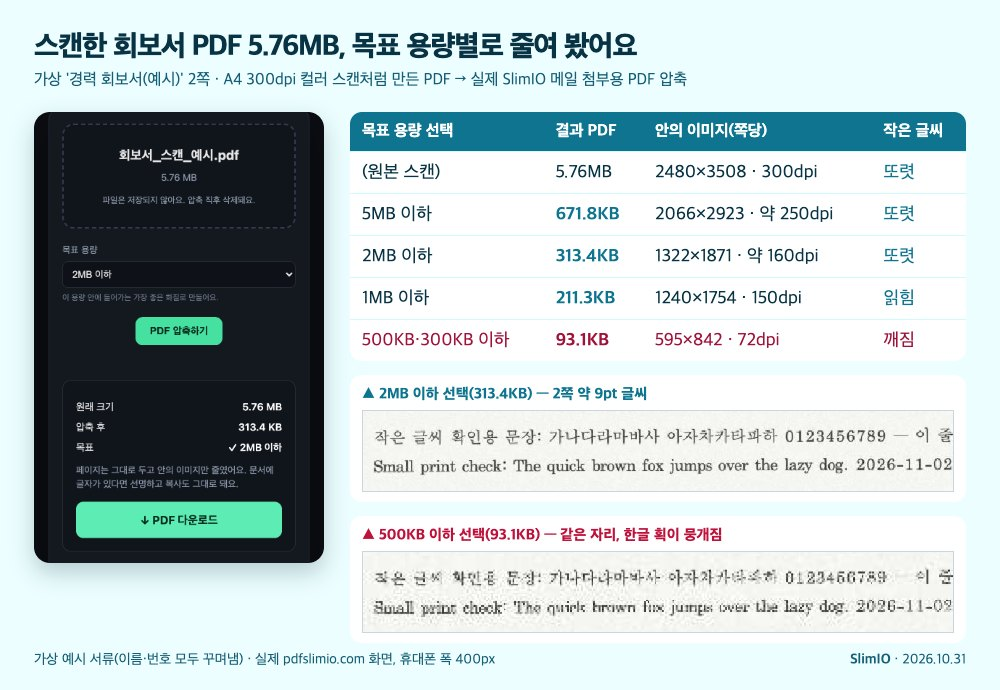
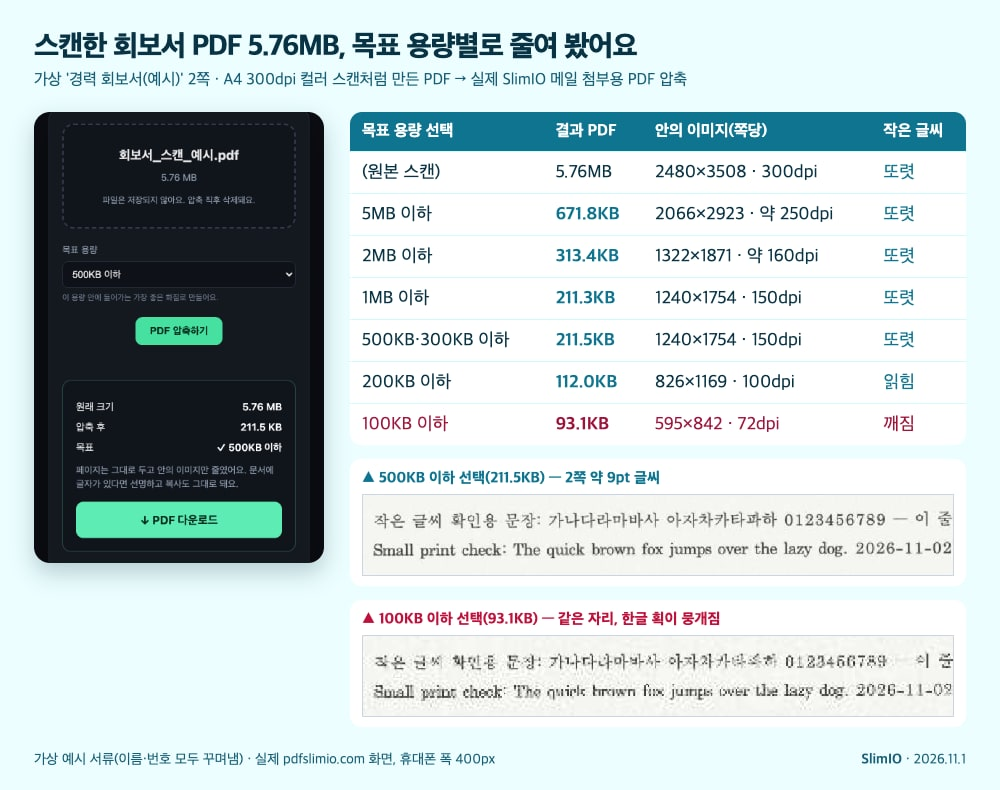
Tistory T20, T25: results measured again on the live site after the server steps fix
T20 (criminal record scan): 500KB and 300KB now 211.5KB at 150dpi (was 93.1KB, smudged);
the smudging now starts at 100KB (93.1KB), 200KB is 112.0KB at 100dpi. The advice follows:
pick the limit the site asks for, not far below it. T25: 500KB 117.1KB -> 160.3KB. Both
pictures rebuilt from the live results. HANDOFF: the mail guide stays (a rebuilt file of the
same kind still needs page images at 1MB), and a server note: a 36MB photo PDF timed out
(gs over 60s) once the shared CPU had used its burst on repeated test runs.

diff --git a/marketing/tistory/20-criminal-record.html b/marketing/tistory/20-criminal-record.html
@@ -5,8 +5,8 @@
 카테고리: 문서·사진 꿀팁
 근거: 경찰청 범죄경력회보서 발급시스템 첫 화면(https://crims.police.go.kr/main.do — 본인발급/열람 11종 버튼, '기관 제출용 신청/관리' "취업 등의 용도로 지정된 시설(기관)의 장에게 본인의 범죄경력을 제공하는 기능", 외국입국/체류 팝업 "비자 발급 시에 한정"·"외국 기업 취업 및 대학교 입학 등"으로는 발급 불가, 발급동의 안내 팝업 "기존 취업자에 대한 점검목적으로 사용이 불가", 본인확인용 팝업·형실효법 10조 2년/2천만원), 같은 시스템 자주하는 질문 50건(POST /bbs/faqDtl.do, 전부 다시 받음 — [1-3] 이메일·팩스·파일(PDF 등) 저장 기능 없음, [1-1] 인쇄 오류는 크롬·엣지, [2-4] 수사경력 보존기간 지나면 삭제·시기는 경찰서 민원실, [2-6] 실효 기간·집행유예 등은 유예기간 지나면 같은 기준, [2-7] 실효돼도 기록 삭제 안 됨, [2-8] 개별법이 제외하도록 한 경우(외국 입국 체류 허가용 등) 제외·"그 외의 경우에는 실효된 형이 포함"·수사자료표 내용확인용은 제외하되 본인이 요구하면 포함, [6-1] 지연 시 신청 경찰서 종합조회처리실, [6-2]·[10-3] 검증완료일부터 5일·'기간만료삭제' 뒤 신규 신청, [8-1] 본인 확인용 제출 불가·채용용은 '취업예정자 등 발급 동의 신청', [9-1] 영문 이름은 쓴 그대로, [9-4] 기재가 다르면 '수사자료표 내용확인용(실효된형 포함)' 신청서 또는 '처분(기재)수정요청', [10-4] 발급언어 '영문', [10-5] 분리·통합, [10-6] 수사경력 제외·쪽 번호 삭제 불가, [10-8] 인터넷 대리발급 불가, [10-11] 검증 14일 이내, [11-2] 순수 자원봉사자는 성범죄경력 조회 대상 아님), 사용설명서 PDF 3종(본인발급-열람·취업예정자 발급동의·상세 설명서 — 오늘 받은 파일이 10-30 파일과 바이트까지 같음: 정부 통합로그인·개인용 공동인증서만·최초 1회 사용자 등록 / 회보서 선택→개인정보 확인→접수경찰서→신청 / 진행 상태 4단계·'회보서 인쇄' / 시설 ID 영문·숫자 6자리·검증번호 숫자 4자리·'동의'·회보서 유형·인쇄유형·직접출력 vs 본인확인완료 후 시설 출력·"인쇄 가능 기간은 5일"), 신청서식 「[통합본]취업제한 등 범죄경력조회 신청서식(본인신청제외) 2026.08.03」 hwp(신청서식안내에서 받음 — 성범죄 경력 등 조회 동의서: "본인은 ○○기관(시설)…의 취업자등으로서 「아동ㆍ청소년의 성보호에 관한 법률」 제56조…에 따른 … 조회에 동의합니다", "동의 거부 시에는 취업에 제한을 받을 수 있습니다", 동의자 서명 자필), 형의 실효 등에 관한 법률 [시행 2026.10.2, 법률 제21490호](https://www.law.go.kr/LSW/lsInfoR.do?lsiSeq=290623 — 6조①4호·③④, 7조① 10년·5년·2년·구류 과료, 10조②③), 같은 법 시행령 [시행 2026.10.2, 대통령령 제36728호](lsiSeq=290533 — 7조의2② 본인 확인 신청은 "본인이 별도로 요구하지 아니하는 한" 실효된 형·사면/복권·3년 지난 소년부송치·면소 간주 선고유예·효력 잃은 집행유예 제외, ③ 외국 입국·체류 허가 신청은 같은 항목 제외), 아동ㆍ청소년의 성보호에 관한 법률 [시행 2026.10.2, 법률 제22027호](lsiSeq=290215 — 56조①1·2호 유치원·학교, ⑤ "본인의 동의를 받아" 조회 요청·회신서 직접 제출 시 조회한 것으로 봄), 정부24 「범죄경력조회 신청」(https://www.gov.kr/mw/AA020InfoCappView.do?CappBizCD=13200000062, 최근 내용 변경·확인 2026-09-14 — 인터넷·방문, 처리기간 총 14일, 수수료 없음, 대리는 수사자료표 확인·외국 입국·체류 목적만·자필 위임장 등), 대한민국 아포스티유 누리집(https://www.apostille.go.kr/ — 대상 문서에 경찰청 범죄·수사경력회보서·범죄경력회보서·수사경력회보서, 외국 입국/체류 허가용) — 모두 2026-10-31 확인. UNCONFIRMED: '동의사유'라는 이름의 입력 칸(공개 설명서·서식에 없음, 로그인 뒤 화면은 못 봄 → 본문에 그렇게 씀) / 회보서 자체 유효기간(공식 안내 없음 → '확인하지 못했어요') / 비자 사이트별 업로드 용량·스캔 해상도 기준(안 씀) / 아포스티유 수수료·절차(이번 글은 대상 문서라는 것만)
 수요: 다음 자동완성(2026-10-31) '범죄경력회보서' → 범죄경력회보서 발급시스템 | 범죄경력 회보서 | 범죄경력회보서 인터넷 발급 | 범죄경력회보서 발급시스템 실효된 형 포함 | 범죄경력회보서 발급 | 범죄경력회보서 발급방법 | 범죄경력회보서 발급시스템 동의사유 | 경찰청 범죄경력회보서 발급시스템 | 인터넷 범죄경력회보서 발급시스템 | 학교 범죄경력회보서 발급시스템 | 범죄경력조회 회보서 발급 시스템 | 성범죄 경력회보서 발급시스템 | 범죄 수사경력 회보서 인터넷 발급 / '범죄경력조회' → 범죄경력조회 동의서 | 범죄경력 조회 회신서 | 범죄경력 조회 신청서 양식 / '성범죄경력조회' → 성범죄 경력 조회 동의서 | 학원강사 성범죄 경력 조회 동의서 / '범죄경력회보서 실효·동의·pdf·출력·영문·기간·용도·스캔·제출'은 자동완성 없음
-실험: 실제 서류는 안 씀. 경찰 상징 없이 직접 만든 가상 '경력 회보서(예시)' 2쪽(박가상·PARK GASANG·발급번호 EX-2611-0417-00·쪽 번호 '- 1 / 2 -'·2쪽에 약 9pt 작은 글씨 줄, 'SAMPLE', scratchpad r1031u/u20/in/crim_p1·p2.html)을 A4 300dpi 컬러 스캔처럼 만든 2쪽 PDF(2480×3508 JPEG 두 장, 회보서_스캔_예시.pdf, 6,039,121바이트 = 도구 표시 5.76MB, scripts/scanify.mjs·mkpdf.py)로 실제 https://pdfslimio.com/ko/compress-pdf-for-email.html?notrack (Playwright headless, 폭 400, scripts/email.mjs): 5MB 이하 → 671.8KB(쪽당 2066×2923, 서버 응답 dpi 250) / 2MB 이하 → 313.4KB(1322×1871, dpi 160) / 1MB 이하 → 211.3KB(1240×1754) / 500KB 이하·300KB 이하 → 둘 다 93.1KB(595×842). 결과 PDF를 Ghostscript로 200dpi로 그려 2쪽 같은 자리 비교(out/email/stack_small.png): 5MB·2MB·1MB는 9pt 한글·영문 또렷, 93.1KB는 한글 작은 글씨 획이 뭉개짐(쪽 번호 '- 2 / 2 -'는 읽힘). 결과 화면 문구 "페이지는 그대로 두고 안의 이미지만 줄였어요", 업로드 화면 "파일은 저장되지 않아요. 압축 직후 삭제돼요."
-이미지: crim-ts-hero.jpg(새 대표 이미지 1200×630, 청록 #0e7490 — 회보서 종류별 실효된 형 포함/제외 카드 + 14일·5일·0원, 사람·경찰 상징 없음), crim-ts-routes-ko.jpg(새 — '누가 달라고 했나요?' 3갈래: 본인 확인용 / 발급동의 / 외국 입국·체류용, 메뉴 이름·실효된 형·인쇄), crim-ts-scan-ko.jpg(새 — 실제 메일 첨부용 PDF 압축 화면 2MB 결과 캡처 + 목표별 결과 표 + 313.4KB vs 93.1KB 같은 자리 확대). 네이버 #62 이미지(남색, 사진→JPG→PDF 화면, 홍길동 예시)와 다른 색·도구·예시 서류
+실험: 실제 서류는 안 씀. 경찰 상징 없이 직접 만든 가상 '경력 회보서(예시)' 2쪽(박가상·PARK GASANG·발급번호 EX-2611-0417-00·쪽 번호 '- 1 / 2 -'·2쪽에 약 9pt 작은 글씨 줄, 'SAMPLE', scratchpad r1031u/u20/in/crim_p1·p2.html)을 A4 300dpi 컬러 스캔처럼 만든 2쪽 PDF(2480×3508 JPEG 두 장, 회보서_스캔_예시.pdf, 6,039,121바이트 = 도구 표시 5.76MB, scripts/scanify.mjs·mkpdf.py)로 실제 https://pdfslimio.com/ko/compress-pdf-for-email.html?notrack (Playwright headless, 폭 400, scripts/email.mjs): 5MB 이하 → 671.8KB(쪽당 2066×2923, 서버 응답 dpi 250) / 2MB 이하 → 313.4KB(1322×1871, dpi 160) / 1MB 이하 → 211.3KB(1240×1754) / 500KB 이하·300KB 이하 → 둘 다 93.1KB(595×842). 결과 PDF를 Ghostscript로 200dpi로 그려 2쪽 같은 자리 비교(out/email/stack_small.png): 5MB·2MB·1MB는 9pt 한글·영문 또렷, 93.1KB는 한글 작은 글씨 획이 뭉개짐(쪽 번호 '- 2 / 2 -'는 읽힘). 결과 화면 문구 "페이지는 그대로 두고 안의 이미지만 줄였어요", 업로드 화면 "파일은 저장되지 않아요. 압축 직후 삭제돼요." ※ 2026-11-01 도구 수정(1MB 미만도 서버가 150/120/100dpi를 먼저 시도) 뒤 같은 파일·같은 스크립트로 실제 사이트에서 다시 잼(out/email1101): 5MB 671.8KB(dpi 250)·2MB 313.4KB(dpi 160)·1MB 211.3KB 그대로, 500KB·300KB 둘 다 211.5KB(1240×1754, dpi 150, 또렷), 200KB 112.0KB(826×1169, dpi 100, 조금 흐리지만 읽힘), 100KB 93.1KB(595×842, 72dpi, 한글 획 뭉개짐). 크롭 out/email1101/stack.png.
+이미지: crim-ts-hero.jpg(새 대표 이미지 1200×630, 청록 #0e7490 — 회보서 종류별 실효된 형 포함/제외 카드 + 14일·5일·0원, 사람·경찰 상징 없음), crim-ts-routes-ko.jpg(새 — '누가 달라고 했나요?' 3갈래: 본인 확인용 / 발급동의 / 외국 입국·체류용, 메뉴 이름·실효된 형·인쇄), crim-ts-scan-ko.jpg(새 — 실제 메일 첨부용 PDF 압축 화면 2MB 결과 캡처 + 목표별 결과 표 + 313.4KB vs 93.1KB 같은 자리 확대). 네이버 #62 이미지(남색, 사진→JPG→PDF 화면, 홍길동 예시)와 다른 색·도구·예시 서류 ※ crim-ts-scan-ko.jpg는 11/1 다시 만듦(img/crim_scan_1101.html, 1000×790): 왼쪽 500KB 결과 화면, 표 7줄, 211.5KB(500KB)와 93.1KB(100KB) 확대.
 예약: 2026-11-09 08:00
 대표이미지: crim-ts-hero.jpg
 -->
@@ -21,7 +21,7 @@
 <b>⏱ 3줄 요약</b><br>
 1⃣ 인터넷 발급은 <b>crims.police.go.kr</b>에서 무료로. 경찰서 검증이 <b>14일 안</b>에 끝나고, 그날부터 <b>5일 안</b>에 인쇄해야 해요<br>
 2⃣ 실효된 형은 <b>본인 확인용은 기본 제외(요청하면 포함)</b>, 외국 입국·체류용은 제외, 그 밖의 회보서는 포함이에요<br>
-3⃣ 파일로 내야 하면 인쇄본을 스캔해서 PDF로. 실험해 보니 목표를 너무 작게 잡으면 작은 글씨가 깨졌어요 🖨
+3⃣ 파일로 내야 하면 인쇄본을 스캔해서 PDF로. 실험해 보니 300KB까지는 또렷했고, 100KB로 줄이면 작은 글씨가 깨졌어요 🖨
 </div>
 
 <h2>🧭 먼저 고를 것: 누가 달라고 했나요?</h2>
@@ -94,14 +94,15 @@
 
 <p>그런데 비자 신청 사이트처럼 <b>파일로 올려야 하는 곳</b>도 있죠. 그럴 땐 인쇄본을 스캔하는 수밖에 없는데, 복합기에서 컬러·고해상도로 스캔하면 두 쪽만으로도 몇 MB가 나와요. 그래서 가상 '경력 회보서(예시)' 2쪽을 A4 300dpi 컬러로 스캔한 것처럼 만든 <b>5.76MB PDF</b>를, 제가 만든 무료 도구 <a href="https://pdfslimio.com/ko/compress-pdf-for-email.html">SlimIO 메일 첨부용 PDF 압축</a>에 목표 용량별로 넣어 봤어요.</p>
 
-<p style="text-align:center;"><img src="https://pdfslimio.com/img/blog/crim-ts-scan-ko.jpg" alt="스캔한 가상 회보서 PDF 5.76MB를 목표 용량별로 압축한 실제 화면과 결과 표, 313.4KB와 93.1KB 결과의 작은 글씨 확대 비교" width="700"></p>
+<p style="text-align:center;"><img src="https://pdfslimio.com/img/blog/crim-ts-scan-ko.jpg" alt="스캔한 가상 회보서 PDF 5.76MB를 목표 용량별로 압축한 실제 화면과 결과 표, 211.5KB와 93.1KB 결과의 작은 글씨 확대 비교" width="700"></p>
 
 <ul>
-  <li>✅ <b>5MB 이하</b> 선택 → 671.8KB, <b>2MB 이하</b> → 313.4KB, <b>1MB 이하</b> → 211.3KB. 2쪽의 약 9pt 작은 글씨까지 또렷했어요.</li>
-  <li>⚠ <b>500KB·300KB 이하</b> 선택 → 둘 다 93.1KB. 쪽마다 이미지가 595×842까지 줄면서 <b>한글 작은 글씨 획이 뭉개졌어요</b>. 쪽 번호 '- 2 / 2 -'는 읽혔어요.</li>
+  <li>✅ <b>5MB 이하</b> 선택 → 671.8KB, <b>2MB 이하</b> → 313.4KB, <b>1MB 이하</b> → 211.3KB, <b>500KB·300KB 이하</b> → 둘 다 211.5KB. 2쪽의 약 9pt 작은 글씨까지 또렷했어요.</li>
+  <li>🙂 <b>200KB 이하</b> 선택 → 112.0KB. 쪽마다 이미지가 826×1169로 줄어 조금 흐려졌지만 읽혔어요.</li>
+  <li>⚠ <b>100KB 이하</b> 선택 → 93.1KB. 쪽마다 이미지가 595×842까지 줄면서 <b>한글 작은 글씨 획이 뭉개졌어요</b>. 쪽 번호 '- 2 / 2 -'는 읽혔어요.</li>
 </ul>
 
-<p>💡 정리하면, 올리는 곳의 용량 한도가 넉넉하다면 목표도 <b>넉넉하게(2MB 이하 등)</b> 고르는 게 좋아요. 무조건 가장 작은 걸 고르면 심사하는 쪽이 글자를 못 읽을 수 있어요. 회보서는 <b>모든 쪽이 한 세트</b>라서, 빠진 쪽 없이 한 파일로 만드세요. 직접 만든 합성 스캔이라 실제 스캔본은 용량이 다를 수 있어요.</p>
+<p>💡 정리하면, 목표는 <b>올리는 곳의 한도에 맞춰</b> 고르면 돼요. 한도보다 훨씬 작게 잡을 필요는 없어요. 이 2쪽 스캔은 300KB까지 또렷했지만, 100KB까지 줄이면 심사하는 쪽이 글자를 못 읽을 수 있어요. 회보서는 <b>모든 쪽이 한 세트</b>라서, 빠진 쪽 없이 한 파일로 만드세요. 직접 만든 합성 스캔이라 실제 스캔본은 용량이 다를 수 있어요.</p>
 
 <p>🔒 이 도구는 50MB까지는 서버에서 압축하고, 화면 안내대로 <b>압축 직후 파일을 삭제</b>해요. 민감한 서류라 서버에 올리는 게 꺼려지면 복합기 스캔 해상도를 낮춰 다시 스캔하는 방법도 있어요. PDF 용량을 줄이는 다른 방법은 <a href="https://ddoua.tistory.com/9">PDF 용량 줄이기 글</a>에 모아 뒀어요.</p>
 

diff --git a/marketing/tistory/25-driving-record.html b/marketing/tistory/25-driving-record.html
@@ -5,8 +5,8 @@
 카테고리: 문서·사진 꿀팁
 근거: 정부24 '운전경력증명서 발급 신청'(https://www.gov.kr/mw/AA020InfoCappView.do?CappBizCD=13200000049 — 최근 내용 확인 2026-08-04: 신청방법 "인터넷 , 방문 , 무인발급기", 본인 또는 대리인(온라인은 대리인 신청 불가), 즉시(근무시간 내 3시간), 수수료 무료, 접수·처리 경찰서, 본인 신분증(주민등록증·운전면허증·여권(뒷자리 없는 여권은 여권정보증명서 함께) 등), 대리는 대리인 신분증·위임장·위임인 신분증, 영문은 여권(행정정보 공동이용 동의 시 담당 공무원 확인), 근거 시행규칙 제129조의2), 경찰민원24 '운전경력증명발급(국문)'(https://minwon24.police.go.kr/cvlcpt/cvlcptGdInfo.do?cvlcptId=MW-003 — 신청방법 방문·정부24·경찰청교통민원24·경찰민원24, 수수료 없음, 문의 182, 최근 확인 2023-12-27), 경찰청 교통민원24 이용안내(https://www.efine.go.kr/notification/help/helpPop.do?contentType=040508&contentUrl=careerIssueReq — 조회>운전면허>운전경력증명서: 운전면허경력·법규위반·교통사고 기간 기준 설정, 발급사유, 인쇄하기, OZ report tool 설치; 안내 그림 help_careerIssue.png — 항목마다 '전체경력'/'오늘기준 최근 _년 _월 이후 경력만 표시', 희망기간은 "신청일로부터 계산", 면허취득이 안 보이면 전체경력으로 다시, "교통민원24에서 인쇄한 운전경력증명서는 진본 확인이 불가"하니 경찰서 민원실·정부24 / 영문 contentType=040509 같은 구성 / '7년 무사고' contentType=040507 그림 help_sevenAcc.png — 사고 여부 조회 서비스가 아니라 2종 보통(수동) 면허로 7년간 면허취소·교통사고 사실이 없어 1종 보통 대상인지 확인, 운전면허시험장 방문, 경찰서에서는 처리 어려움, 로그인 필요), 한국도로교통공단 안전운전 통합민원 '7년무사고'(https://www.safedriving.or.kr/guide/larGuide06.do?menuCode=MN-PO-1216 — 전국 운전면허시험장, 2종보통 면허로 신청일부터 과거 7년 이상 무사고, "2026.3.19.부터 자동차보험가입증명서 등을 통해 운전한 경험이 있음을 입증하는 경우에 한정", 수수료 일반 10,000원·모바일IC 15,000원(신체검사료 별도)) + '운전경력 입증자료 및 경력 확인 기준' 팝업(https://www.safedriving.or.kr/diGuide/selectDiGuideCareerPop.do — 자동차 보험가입증명서, 운수업체 경력증명서, 재직증명서+법인 차량 서류, 자동차등록증, 교통위반 단속 내역, 운전학원 도로연수 10시간 이상, 렌터카 합산 72시간 이상 등, 신청일부터 7년 이내) + 첫 화면 메뉴(운전경력증명서 발급 메뉴는 못 찾음), 국가법령정보센터 도로교통법 제137조(③ 본인 또는 대리인이 시·도경찰청장, 경찰서장 또는 한국도로교통공단에 증명 신청)·도로교통법 시행규칙 제129조의2(시행 2027.1.1판 화면 — 경찰서장에게 신청, 원하면 지문 대조, 영문은 여권정보 확인, 연습면허 기간은 운전경력에서 제외)·별지 제144호의2서식 신청서(면허 경력 "미작성 시 보유중인 면허만 조회됨", 유의사항 "법규위반(통고처분)의 경우 2000년 이후 자료로 한정되며, 범칙금 납부 후 5년이 경과한 자료는 파기")·제144호의3서식 증명서(A4 가로, 운전면허 경력 종별 발급일자(취소·정지), 교통사고 사고일자·발생지 경찰서·피해구분·인적피해, 법규위반 발생일자·단속지 경찰서·위반내용(법조항), 누산점수, 용도, 유의사항 1 "최근 ( )년" 기준)·제144호의4서식 영문 "Certificate of Driver's License"(Penalty Point 칸), 정책브리핑 경찰청 보도자료 '무인민원발급기 연계 경찰증명 발급시스템 구축'(https://www.korea.kr/common/download.do?fileId=197581263&tblKey=GMN — 12월 26일부터 교통사고사실확인원·운전경력증명서(국문)·(영문), "발급 비용은 무료", 경찰증명서 선택 → 주민등록번호 → 지문인식), 정부24 무인민원발급안내(https://plus.gov.kr/portal/custcntr/utztngd/unmncvlcptissugd/unmncvlcptissugdinfo — "발급종수 및 발급 가능 시간은 … 현장 여건 및 운영상황에 따라 달라질 수" 있으니 설치장소에 문의, 목록 표에는 경찰 증명서 분류가 따로 없음) — 모두 2026-10-31 확인. UNCONFIRMED·처리: ① 운전면허시험장 창구에서 운전경력증명서 발급 — 법 137조는 공단도 적지만 정부24·경찰민원24 접수처는 경찰서, 안전운전 통합민원 메뉴에도 없음 → '공식 안내에서 확인하지 못했어요, 가기 전에 문의' ② 음주운전이 어떤 문구로 몇 년치 나오는지 → 서식의 관련 칸(취소·정지, 위반내용(법조항))만 설명하고 '확인하지 못했어요, 182' ③ 사고가 없을 때 빈칸인지 '해당 없음' 문구인지 → 확인 못 함 ④ '전체경력'을 고르면 증명서 제목 칸에 무엇이 찍히는지 → 안 씀 ⑤ 운전경력증명서가 7년 무사고 입증자료로 인정되는지 → 공단 입증자료 목록에 이름이 없어 '목록에 없어요'로만 씀 ⑥ 회사·보험사가 원하는 기간·형식 → '제출처 안내 따르기'
 수요: 다음 자동완성(2026-10-31) '운전경력증명서' → 운전경력증명서 인터넷발급 | 운전경력증명서 | 운전경력증명서 발급 | 운전경력증명서 발급기관 | 운전경력증명서 음주운전 기록 | 무사고 운전경력증명서 | 운전경력증명서 무인발급기 | 정부24 운전경력증명서 | 운전경력증명서 발급사유 | 자동차 운전경력증명서 | 군 운전경력증명서 발급 | 운전면허 경력증명서 발급 / '무사고 증명서' → 무사고 운전경력증명서·무사고 증명서 발급·무사고 경력증명서 발급 / '안전운전 통합민원' → 도로교통공단 안전운전 통합민원 등 / '영문 운전경력증명서'·'운전경력증명서 pdf'·'기간'·'취업'·'보험'은 다음 자동완성 없음
-실험: 실제 서류는 안 씀. 관인·실제 서식 없이 직접 만든 가상 '운전경력증명서(예시)'(한예시·면허번호 00-00-000000-00·기간 면허 경력 10년/교통사고 5년/법규위반 3년(임의)·7pt 확인번호 줄, A4 가로 1쪽 글자 PDF 216,040바이트 — 도구 표시 211.0KB, in/dr_sample.html)와 가상 '운전면허증 사본(예시)'(얼굴 없는 실루엣, 'SAMPLE', 300dpi 스캔처럼 만든 2480×3508 JPG를 A4 세로 PDF로 1,162,835바이트 — 1.11MB). ① 실제 https://pdfslimio.com/ko/merge.html?notrack (Playwright headless, 폭 400, scripts/merge.mjs): 사본·증명서 순으로 올린 뒤 증명서 줄의 ▲(위로)로 첫 장으로 → 합친 파일 2·전체 페이지 2·1.22MB(1,281,457바이트), pdf.js로 1쪽 842×595pt(가로, 글자 687자 그대로)·2쪽 595×842pt(세로) 확인. ② 그 파일을 실제 https://pdfslimio.com/ko/compress-pdf-for-email.html?notrack (scripts/email.mjs)에: 1MB 이하 → 366.0KB, 500KB 이하 → 117.1KB('페이지는 그대로 두고 안의 이미지만 줄였어요'), 두 결과 모두 쪽 방향·증명서 글자 그대로, 117.1KB에서도 사본 글자 읽힘(확대 비교)
-이미지: driving-record-ts-hero.jpg(새 대표 1200×630, 고속도로 표지판 초록 #064e3b·#15803d — 발급기관 4방향 표지판 그림, 얼굴 없음), driving-record-ts-fields-ko.jpg(새 — 직접 만든 예시 증명서에 칸 번호 ①~⑤를 붙여 면허 경력(취소·정지)·교통사고·법규위반·누산점수·용도 설명, 기간 표시 안내), driving-record-ts-merge-ko.jpg(새 — 실제 합치기 화면(▲로 순서 변경 후) + 실제 PDF 압축 화면(500KB) + 결과 흐름 + 117.1KB 확대). 네이버 #67 이미지(짙은 파랑 #1d4ed8, 종이 증명서 사진→JPG→PDF 실험, 발급처 그림)와 다른 색·구성·실험·예시 문서
+실험: 실제 서류는 안 씀. 관인·실제 서식 없이 직접 만든 가상 '운전경력증명서(예시)'(한예시·면허번호 00-00-000000-00·기간 면허 경력 10년/교통사고 5년/법규위반 3년(임의)·7pt 확인번호 줄, A4 가로 1쪽 글자 PDF 216,040바이트 — 도구 표시 211.0KB, in/dr_sample.html)와 가상 '운전면허증 사본(예시)'(얼굴 없는 실루엣, 'SAMPLE', 300dpi 스캔처럼 만든 2480×3508 JPG를 A4 세로 PDF로 1,162,835바이트 — 1.11MB). ① 실제 https://pdfslimio.com/ko/merge.html?notrack (Playwright headless, 폭 400, scripts/merge.mjs): 사본·증명서 순으로 올린 뒤 증명서 줄의 ▲(위로)로 첫 장으로 → 합친 파일 2·전체 페이지 2·1.22MB(1,281,457바이트), pdf.js로 1쪽 842×595pt(가로, 글자 687자 그대로)·2쪽 595×842pt(세로) 확인. ② 그 파일을 실제 https://pdfslimio.com/ko/compress-pdf-for-email.html?notrack (scripts/email.mjs)에: 1MB 이하 → 366.0KB, 500KB 이하 → 117.1KB('페이지는 그대로 두고 안의 이미지만 줄였어요'), 두 결과 모두 쪽 방향·증명서 글자 그대로, 117.1KB에서도 사본 글자 읽힘(확대 비교) ※ 2026-11-01 도구 수정(1MB 미만도 서버가 150/120/100dpi를 먼저 시도) 뒤 같은 파일로 실제 사이트에서 다시 잼(out/email1101): 1MB 이하 366.0KB(dpi 300) 그대로, 500KB 이하 117.1KB → 160.3KB(dpi 150, 쪽·방향·증명서 글자 그대로, 사본 글자 읽힘). 300KB·200KB 이하도 160.3KB.
+이미지: driving-record-ts-hero.jpg(새 대표 1200×630, 고속도로 표지판 초록 #064e3b·#15803d — 발급기관 4방향 표지판 그림, 얼굴 없음), driving-record-ts-fields-ko.jpg(새 — 직접 만든 예시 증명서에 칸 번호 ①~⑤를 붙여 면허 경력(취소·정지)·교통사고·법규위반·누산점수·용도 설명, 기간 표시 안내), driving-record-ts-merge-ko.jpg(새 — 실제 합치기 화면(▲로 순서 변경 후) + 실제 PDF 압축 화면(500KB) + 결과 흐름 + 117.1KB 확대). 네이버 #67 이미지(짙은 파랑 #1d4ed8, 종이 증명서 사진→JPG→PDF 실험, 발급처 그림)와 다른 색·구성·실험·예시 문서 ※ driving-record-ts-merge-ko.jpg는 11/1 다시 만듦(img/dr_merge_1101.html): 압축 화면·확대는 500KB 160.3KB 결과, 아래 날짜 10-31(합치기)·11-01(압축).
 예약: 2026-11-14 08:00
 대표이미지: driving-record-ts-hero.jpg
 -->
@@ -21,7 +21,7 @@
 <b>⏱ 3줄 요약</b><br>
 1⃣ 정부24·경찰민원24·교통민원24·경찰서·무인민원발급기, <b>어디서 떼도 무료</b>이고 바로 나와요<br>
 2⃣ 면허 경력·법규위반·교통사고마다 <b>'전체' 또는 '최근 ○년'</b>을 골라요. 기간은 신청일부터 거꾸로 세요<br>
-3⃣ 증명서와 면허증 사본을 <b>PDF 한 파일</b>로 합쳤더니 1.22MB, 압축하니 117.1KB까지 줄었어요 (실험)
+3⃣ 증명서와 면허증 사본을 <b>PDF 한 파일</b>로 합쳤더니 1.22MB, 압축하니 160.3KB까지 줄었어요 (실험)
 </div>
 
 <div style="margin:36px auto;max-width:620px;padding:26px 20px 22px;border-radius:18px;background:#0b0d12;text-align:center;">
@@ -100,11 +100,11 @@
   <li>🪪 운전면허증 사본(예시): A4 <b>세로</b> 1쪽, 300dpi 스캔, 1.11MB</li>
 </ul>
 
-<p style="text-align:center;"><img src="https://pdfslimio.com/img/blog/driving-record-ts-merge-ko.jpg" alt="PDF 합치기와 PDF 압축 실제 화면, 1.22MB를 366.0KB와 117.1KB로 줄인 결과와 확대 비교" width="700"></p>
+<p style="text-align:center;"><img src="https://pdfslimio.com/img/blog/driving-record-ts-merge-ko.jpg" alt="PDF 합치기와 PDF 압축 실제 화면, 1.22MB를 366.0KB와 160.3KB로 줄인 결과와 확대 비교" width="700"></p>
 
 <ol>
   <li><b>합치기:</b> 두 파일을 올리고 증명서 줄의 ▲를 눌러 첫 장으로 → <b>2쪽 1.22MB</b>. 가로 쪽은 가로, 세로 쪽은 세로 그대로였고 증명서 글자도 그대로 남았어요.</li>
-  <li><b>용량 맞추기:</b> 업로드 한도가 작다면 압축해요. 1MB 이하로는 <b>366.0KB</b>, 500KB 이하로는 <b>117.1KB</b>가 됐어요. 줄어든 건 스캔 사본 이미지뿐이고, 117.1KB에서도 사본 글자가 읽혔어요.</li>
+  <li><b>용량 맞추기:</b> 업로드 한도가 작다면 압축해요. 1MB 이하로는 <b>366.0KB</b>, 500KB 이하로는 <b>160.3KB</b>가 됐어요. 줄어든 건 스캔 사본 이미지뿐이고, 160.3KB에서도 사본 글자가 읽혔어요.</li>
 </ol>
 
 <ul>

diff --git a/HANDOFF.md b/HANDOFF.md
@@ -152,7 +152,8 @@
      - **세션 정리:** whelk 2-45 메모(예약 글 4편 '생년월일 6자리') → 고칠 필요 없음(T14 본문엔 없음, #58은 건강보험25시 앱 안내, #61·T18은 e보건소 FAQ 인용). ratfish '블로그도 확인해바'(통계 창이 화면 잠금으로 멈춤) → 대신 읽음: 공개 14편 하루 조회 10/28 151 · 10/29 154 · 10/30 120 · 10/31 59(20시까지), 누적 856 중 운전면허 글 514(하루 115→75→46→16로 식는 중), 나머지 글당 하루 0~17. ratfish 통계 창 닫음. 다른 프로젝트 세션 7개(toss·X·STT·soul·warlock 2·Lucker)는 사장님 답 대기라 손대지 않음. 다른 세션에 보낸 메시지는 권한 모드 차이로 보류·만료돼 전달 안 됨.
 4-1. **목표 용량 압축 서버 단계 수정 (2026-11-01, 사장님 '압축 도구 수정 진행해')** — 커밋 0afd02b·8e8c3e9(server.cjs, e2e 새 테스트 'keeps 150 dpi when 500KB has room'(--live 포함, 라이브 사용 6회)), 데스크톱·모바일 각 221개 통과. ① 1MB 미만: 예전엔 바로 screen(72dpi) → 6MB 2쪽 300dpi 스캔이 500KB에서 93KB·작은 글씨 뭉개짐(150dpi 211KB가 들어가는데도). 이제 150 → 120(150 결과×0.7이 한도 안일 때만) → 100dpi → 마지막에 screen. ② 1MB 이상: 300dpi부터 추정하다 plain ebook이 안 들어가면(150~225dpi 그림은 ebook이 안 건드림) 바로 쪽 이미지로 갔음 → 같은 150/120/100 단계를 먼저. 150·100은 300dpi 스캔을 딱 나눠 gs가 평균을 내서 훨씬 작음(110·130dpi는 오히려 큼, 그래서 추정 대신 고정 단계). 큰 스캔(13MB 10쪽)은 1MB에서 gs를 최대 5번 돌려 로컬 43초(예전 22초+브라우저 변환).
    - **사이트 반영(같은 커밋 묶음):** 3쪽 스캔 시험(입력은 whelk 스크래치패드 meas/scan3.pdf, 3,781,587바이트 — `tools/measure_pdf_sizes.mjs <outdir> <scan3.pdf>`로 같은 파일 재측정 가능하게 고침) 500KB 340.1KB→477.8KB(쪽 그대로 100dpi), 1MB 751.6KB(쪽 이미지 108dpi)→770.0KB(쪽 그대로 120dpi), 나머지 그대로. `tools/measured.json` 행별 date, gen_measured.py 문구, 가이드 pdf-size-test(한·영) 표·FAQ·'11월 1일에 고친 것' 단락, size-compare.jpg(1MB 줄 추가, 1000×1224), about 업데이트 기록. 숫자는 새 코드 로컬 서버(gs 10.08)로 잰 뒤, 11/1 배포(Fly) 뒤 라이브로 다시 잼: 500KB 477.8KB 그대로, 1MB 770.1→770.0KB로 고침(그림도 라이브 결과로 다시 만듦), 300KB·2MB 그대로. `npm test -- --live` 통과(새 500KB 테스트 포함), IndexNow 103 URL HTTP 200.
-   - **배포 뒤 할 일:** 라이브로 다시 재기 — 티스토리 T20 범죄경력회보서(11/9 08:00, 500KB·300KB 93.1KB 깨짐 → 로컬 예상 216.6KB 150dpi; 본문 24·100~104줄, 그림 crim-ts-scan-ko.jpg, 스크립트 scratchpad r1031u/u20/scripts/email.mjs), T25 운전경력증명서(11/14 08:00, 500KB 117.1KB → 로컬 예상 164.1KB 150dpi; 24·103·107줄, 그림 driving-record-ts-merge-ko.jpg, u24/scripts/email.mjs). 고친 그림은 pdfslimio.com에서 불러오니 **11/9 전에 한 번 더 배포**, 글은 tedit.py로 저장. 메일 첨부 가이드(ko, 공개) 1MB 747.6KB(쪽 이미지)는 원본 36MB 파일이 없음 → 같은 방식(휴대폰 사진 10장을 A4에)으로 다시 만들어 재고 날짜 붙인 메모로 덧붙임. 네이버 #06(공개, 같은 747.6KB)은 그날 실험 기록이라 그대로 둠(사장님께 알림). 사진 PDF 입력(#48·#56·#64·T19)은 gs로 안 줄어 결과 그대로(로컬 확인).
+   - **배포 뒤 할 일:** 라이브로 다시 재기 — 티스토리 T20 범죄경력회보서(11/9 08:00, 500KB·300KB 93.1KB 깨짐 → 로컬 예상 216.6KB 150dpi; 본문 24·100~104줄, 그림 crim-ts-scan-ko.jpg, 스크립트 scratchpad r1031u/u20/scripts/email.mjs), T25 운전경력증명서(11/14 08:00, 500KB 117.1KB → 로컬 예상 164.1KB 150dpi; 24·103·107줄, 그림 driving-record-ts-merge-ko.jpg, u24/scripts/email.mjs). 고친 그림은 pdfslimio.com에서 불러오니 **11/9 전에 한 번 더 배포**, 글은 tedit.py로 저장. **→ 11/1 라이브로 다시 재서 고침:** T20 5MB 671.8·2MB 313.4·1MB 211.3KB 그대로, 500KB·300KB 211.5KB(150dpi), 200KB 112.0KB(100dpi), 100KB 93.1KB(72dpi, 뭉개짐) → 글의 결론을 "300KB까지 또렷, 100KB에서 깨짐"으로, 그림 7줄 표로 다시 만듦(scratchpad r1031u/u20/img/crim_scan_1101.html). T25 1MB 366.0KB 그대로, 500KB 160.3KB(150dpi; 300·200KB도 같음), 그림 다시 만듦(u24/img/dr_merge_1101.html). **두 글 모두 티스토리 예약 글 본문은 아직 안 고침 → tedit.py로 저장해야 함, 새 그림은 다음 배포 뒤 나옴.** 메일 첨부 가이드(ko)·네이버 #06의 1MB 747.6KB는 그대로 둠: 원본 36MB 파일이 없어 같은 방식(3024×4032 사진 10장, 장당 3.6MB, A4)으로 다시 만들어(scratchpad small/mail/make.mjs) 보니 100dpi도 1.71MB라 새 단계로도 1MB엔 안 들어가고 예전처럼 쪽을 이미지로 바꿈.
+   - **발견(서버 성능):** 그 36MB 파일을 실제 사이트에 연달아 넣었더니 5MB·10MB(그리고 다시 해 본 2MB)에서 "gs exit null"(60초 제한에 걸려 죽음) → 브라우저가 쪽 이미지 108dpi 2.39MB로 대신 만듦. gs는 로컬에서 300dpi 1회 4.6초·메모리 25MB인데 Fly shared-cpu-1x(256MB)가 버스트를 다 쓰면 기본 몫(1/16 코어쯤)으로 줄어 60초를 넘김. 내 연속 시험이 버스트를 다 쓴 탓으로 보임(평소 하루 25회·작은 파일은 문제없음). 큰 사진 PDF가 몰리면 같은 일이 생길 수 있음 → 사장님께 알림(CPU 늘리기는 비용, 결정은 사장님). 사진 PDF 입력(#48·#56·#64·T19)은 gs로 안 줄어 결과 그대로(로컬 확인).
 5. **홍보:** `marketing/PROMO.md` 순서대로 (AlternativeTo·SaaSHub 등록 → Show HN → GeekNews/디스콰이엇 → r/SideProject → X). 올린 날짜를 표에 기록
 6. **페이지 추가·수정 후 배포하면** `tools/indexnow.sh` 실행 + GSC·네이버에서 새 URL 색인 요청
    - 2026-09-29: 증명사진·50KB·20KB 6개 GSC 색인 요청 + GSC 사이트맵 재제출, 네이버 `/ko/` 3개 수집 요청 완료 (Claude가 `orca computer`로 Chrome 조작 — 사용자 로그인 세션 사용)
